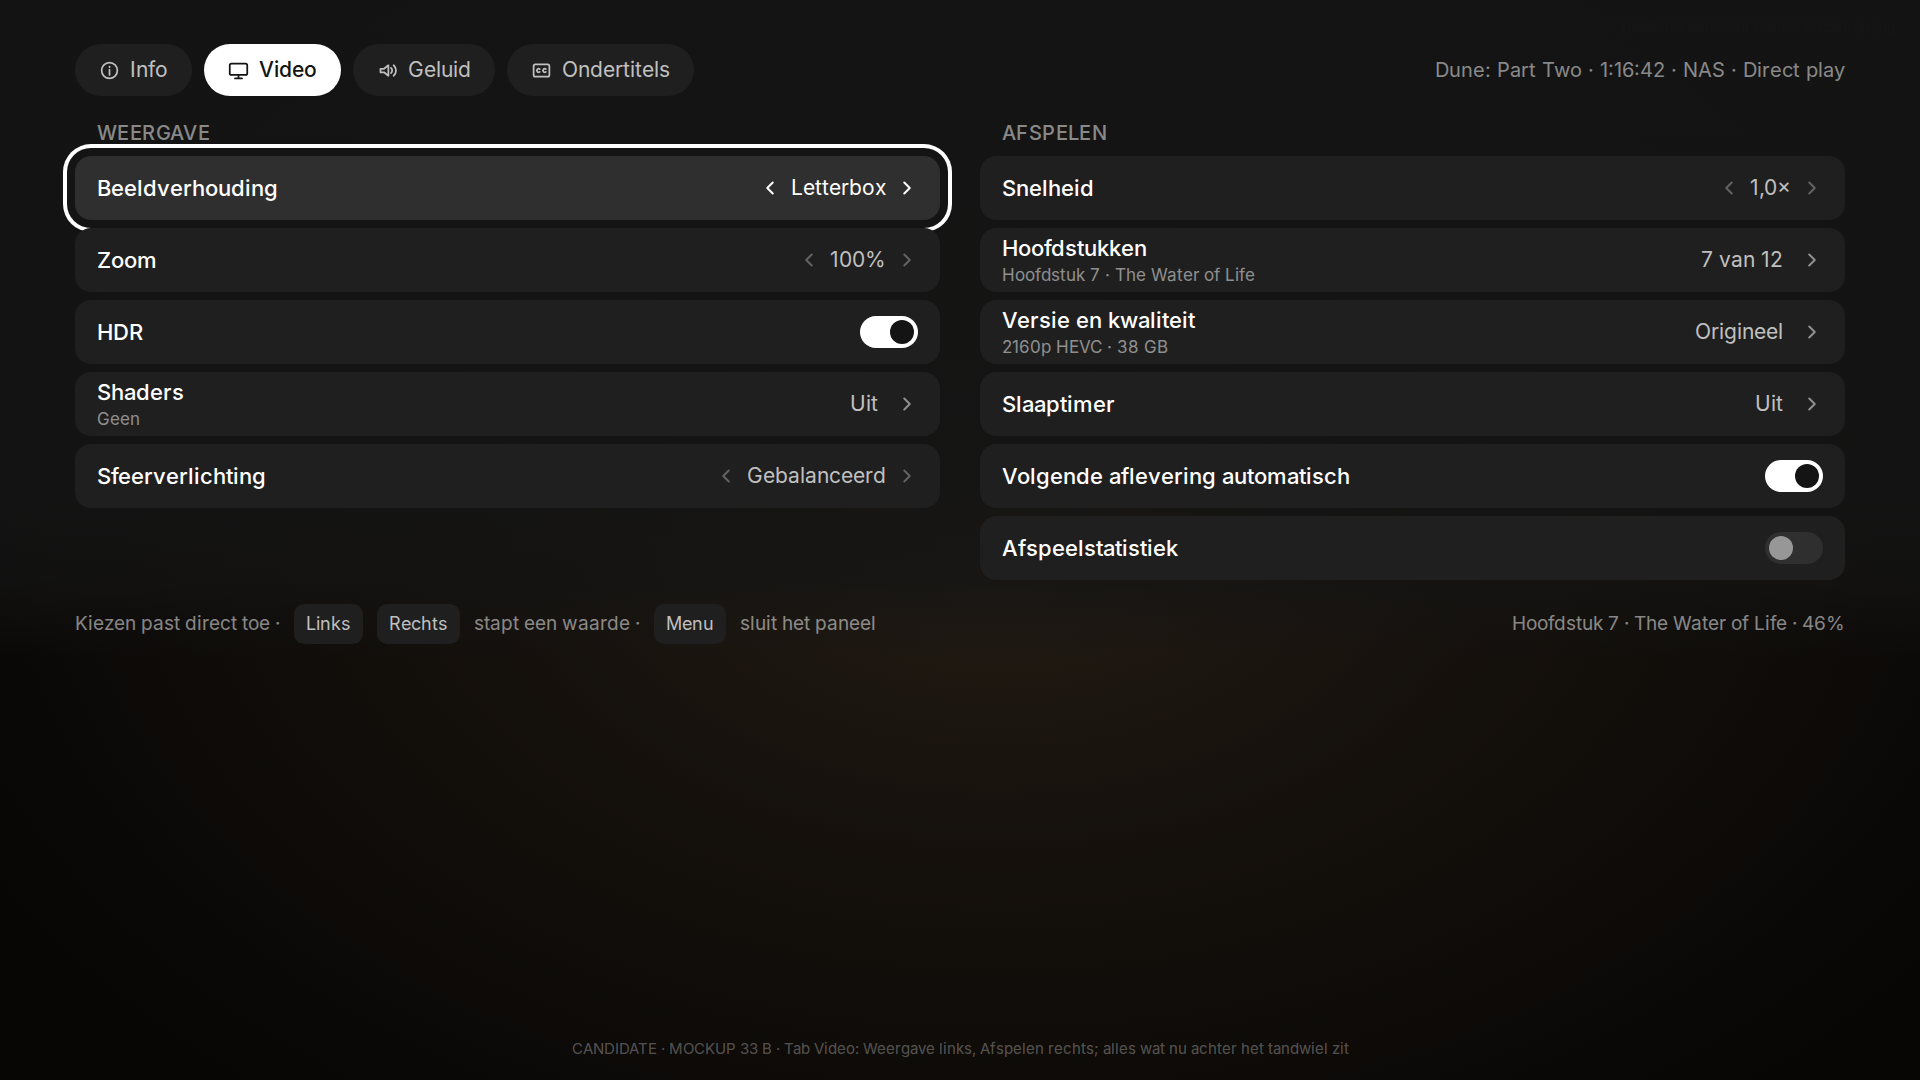
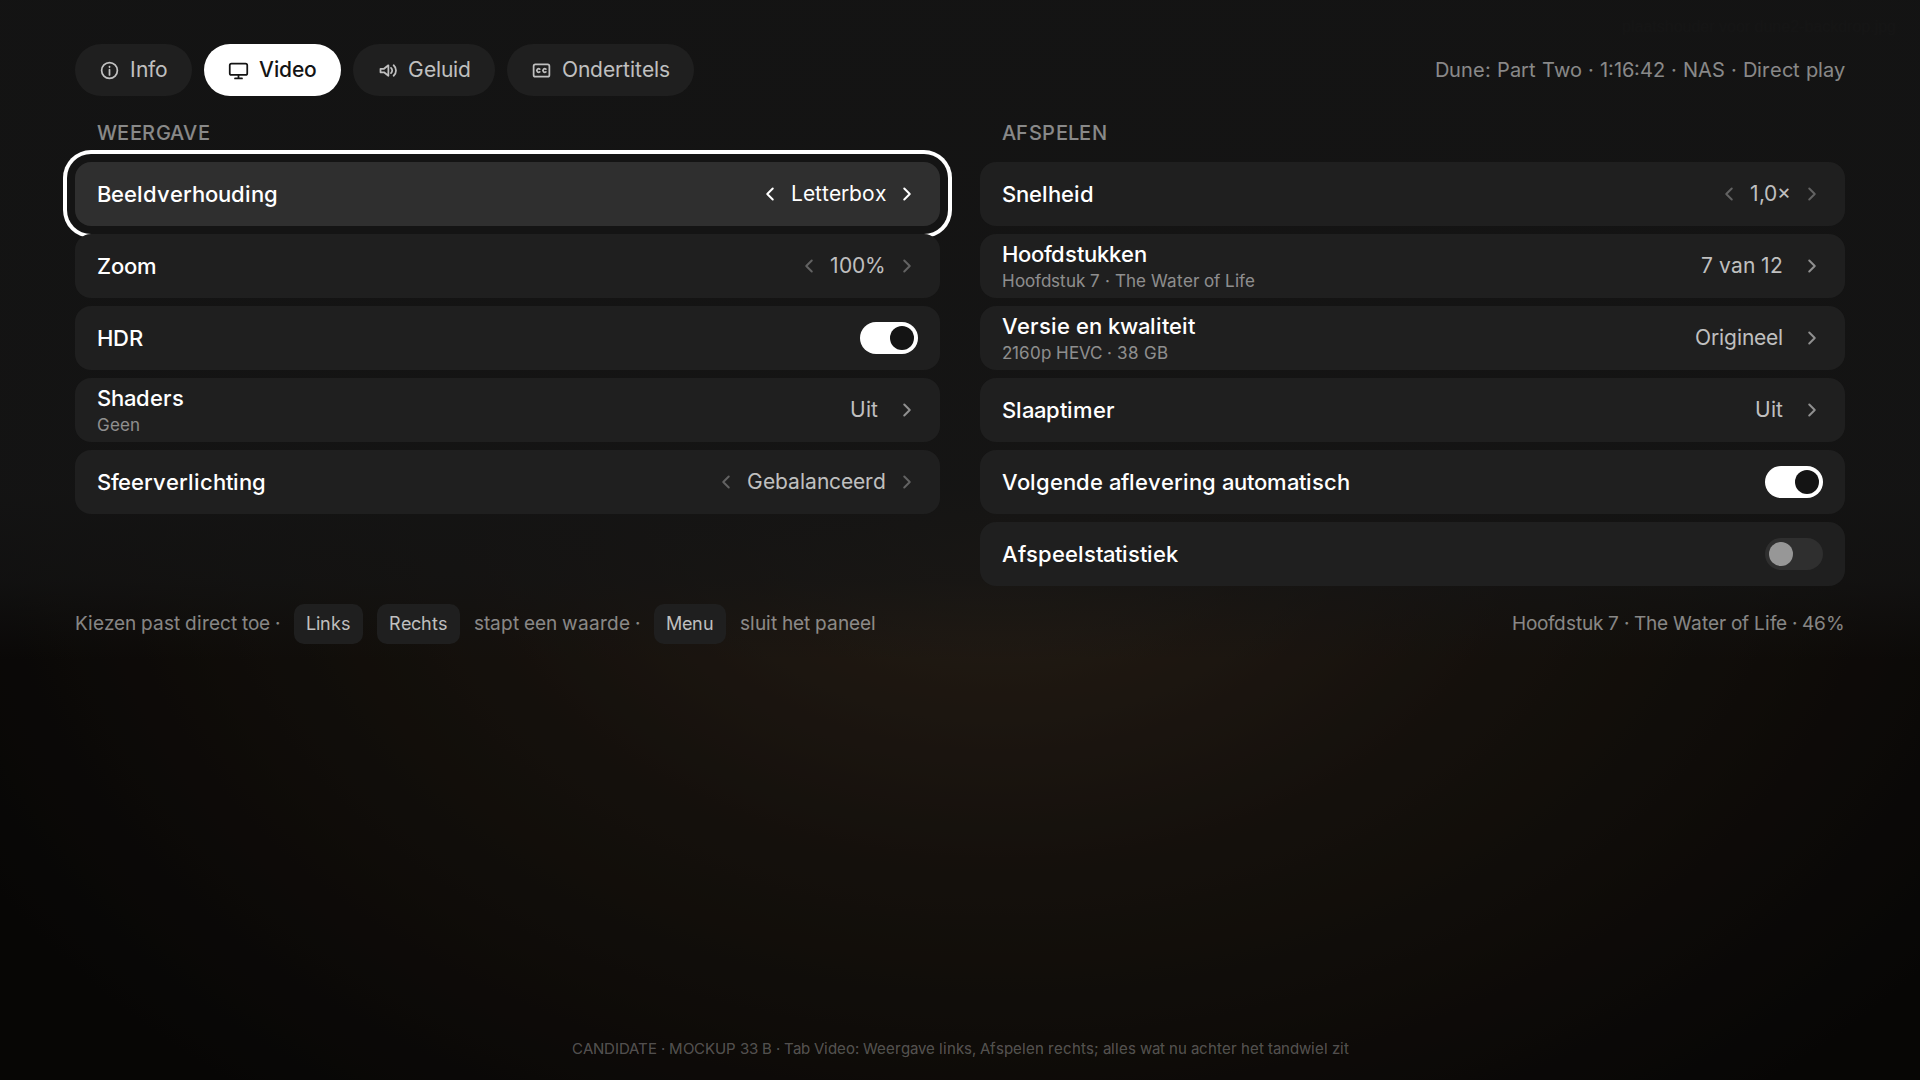
docs(tv): mockup 33, sectiekop vrij van de focusring op de eerste rij
Claude-Session: https://claude.ai/code/session_01Coo9awv2whS8q3HcB3bQhP

diff --git a/docs/assets/tvos-unified/src/pages/33-speler-paneel-a.html b/docs/assets/tvos-unified/src/pages/33-speler-paneel-a.html
@@ -11,7 +11,7 @@
 .ptabs .back .crumb { font-size: 20px; font-weight: 400; color: var(--ink-3); margin-left: 6px; }
 .cols { display: grid; grid-template-columns: 1fr 1fr; gap: 40px; margin-top: 24px; }
 .cols.one { grid-template-columns: 1fr; }
-.sec { font-size: 20px; font-weight: 500; color: var(--ink-3); letter-spacing: .02em; text-transform: uppercase; margin: 0 0 10px 22px; }
+.sec { font-size: 20px; font-weight: 500; color: var(--ink-3); letter-spacing: .02em; text-transform: uppercase; margin: 0 0 16px 22px; }
 .col .rows { gap: 8px; }
 .col .row { min-height: 64px; padding: 0 22px; gap: 18px; }
 .col .row .t { font-size: 22px; }

diff --git a/docs/assets/tvos-unified/src/pages/33-speler-paneel-b.html b/docs/assets/tvos-unified/src/pages/33-speler-paneel-b.html
@@ -11,7 +11,7 @@
 .ptabs .back .crumb { font-size: 20px; font-weight: 400; color: var(--ink-3); margin-left: 6px; }
 .cols { display: grid; grid-template-columns: 1fr 1fr; gap: 40px; margin-top: 24px; }
 .cols.one { grid-template-columns: 1fr; }
-.sec { font-size: 20px; font-weight: 500; color: var(--ink-3); letter-spacing: .02em; text-transform: uppercase; margin: 0 0 10px 22px; }
+.sec { font-size: 20px; font-weight: 500; color: var(--ink-3); letter-spacing: .02em; text-transform: uppercase; margin: 0 0 16px 22px; }
 .col .rows { gap: 8px; }
 .col .row { min-height: 64px; padding: 0 22px; gap: 18px; }
 .col .row .t { font-size: 22px; }

diff --git a/docs/assets/tvos-unified/src/pages/33-speler-paneel-c.html b/docs/assets/tvos-unified/src/pages/33-speler-paneel-c.html
@@ -11,7 +11,7 @@
 .ptabs .back .crumb { font-size: 20px; font-weight: 400; color: var(--ink-3); margin-left: 6px; }
 .cols { display: grid; grid-template-columns: 1fr 1fr; gap: 40px; margin-top: 24px; }
 .cols.one { grid-template-columns: 1fr; }
-.sec { font-size: 20px; font-weight: 500; color: var(--ink-3); letter-spacing: .02em; text-transform: uppercase; margin: 0 0 10px 22px; }
+.sec { font-size: 20px; font-weight: 500; color: var(--ink-3); letter-spacing: .02em; text-transform: uppercase; margin: 0 0 16px 22px; }
 .col .rows { gap: 8px; }
 .col .row { min-height: 64px; padding: 0 22px; gap: 18px; }
 .col .row .t { font-size: 22px; }

diff --git a/docs/assets/tvos-unified/src/pages/33-speler-paneel-d.html b/docs/assets/tvos-unified/src/pages/33-speler-paneel-d.html
@@ -11,7 +11,7 @@
 .ptabs .back .crumb { font-size: 20px; font-weight: 400; color: var(--ink-3); margin-left: 6px; }
 .cols { display: grid; grid-template-columns: 1fr 1fr; gap: 40px; margin-top: 24px; }
 .cols.one { grid-template-columns: 1fr; }
-.sec { font-size: 20px; font-weight: 500; color: var(--ink-3); letter-spacing: .02em; text-transform: uppercase; margin: 0 0 10px 22px; }
+.sec { font-size: 20px; font-weight: 500; color: var(--ink-3); letter-spacing: .02em; text-transform: uppercase; margin: 0 0 16px 22px; }
 .col .rows { gap: 8px; }
 .col .row { min-height: 64px; padding: 0 22px; gap: 18px; }
 .col .row .t { font-size: 22px; }

diff --git a/docs/assets/tvos-unified/src/pages/33-speler-paneel-e.html b/docs/assets/tvos-unified/src/pages/33-speler-paneel-e.html
@@ -11,7 +11,7 @@
 .ptabs .back .crumb { font-size: 20px; font-weight: 400; color: var(--ink-3); margin-left: 6px; }
 .cols { display: grid; grid-template-columns: 1fr 1fr; gap: 40px; margin-top: 24px; }
 .cols.one { grid-template-columns: 1fr; }
-.sec { font-size: 20px; font-weight: 500; color: var(--ink-3); letter-spacing: .02em; text-transform: uppercase; margin: 0 0 10px 22px; }
+.sec { font-size: 20px; font-weight: 500; color: var(--ink-3); letter-spacing: .02em; text-transform: uppercase; margin: 0 0 16px 22px; }
 .col .rows { gap: 8px; }
 .col .row { min-height: 64px; padding: 0 22px; gap: 18px; }
 .col .row .t { font-size: 22px; }

diff --git a/docs/assets/tvos-unified/src/pages/33-speler-paneel-f.html b/docs/assets/tvos-unified/src/pages/33-speler-paneel-f.html
@@ -11,7 +11,7 @@
 .ptabs .back .crumb { font-size: 20px; font-weight: 400; color: var(--ink-3); margin-left: 6px; }
 .cols { display: grid; grid-template-columns: 1fr 1fr; gap: 40px; margin-top: 24px; }
 .cols.one { grid-template-columns: 1fr; }
-.sec { font-size: 20px; font-weight: 500; color: var(--ink-3); letter-spacing: .02em; text-transform: uppercase; margin: 0 0 10px 22px; }
+.sec { font-size: 20px; font-weight: 500; color: var(--ink-3); letter-spacing: .02em; text-transform: uppercase; margin: 0 0 16px 22px; }
 .col .rows { gap: 8px; }
 .col .row { min-height: 64px; padding: 0 22px; gap: 18px; }
 .col .row .t { font-size: 22px; }

diff --git a/docs/assets/tvos-unified/src/pages/33-speler-paneel-g.html b/docs/assets/tvos-unified/src/pages/33-speler-paneel-g.html
@@ -11,7 +11,7 @@
 .ptabs .back .crumb { font-size: 20px; font-weight: 400; color: var(--ink-3); margin-left: 6px; }
 .cols { display: grid; grid-template-columns: 1fr 1fr; gap: 40px; margin-top: 24px; }
 .cols.one { grid-template-columns: 1fr; }
-.sec { font-size: 20px; font-weight: 500; color: var(--ink-3); letter-spacing: .02em; text-transform: uppercase; margin: 0 0 10px 22px; }
+.sec { font-size: 20px; font-weight: 500; color: var(--ink-3); letter-spacing: .02em; text-transform: uppercase; margin: 0 0 16px 22px; }
 .col .rows { gap: 8px; }
 .col .row { min-height: 64px; padding: 0 22px; gap: 18px; }
 .col .row .t { font-size: 22px; }

diff --git a/docs/assets/tvos-unified/src/pages/33-speler-paneel-h.html b/docs/assets/tvos-unified/src/pages/33-speler-paneel-h.html
@@ -11,7 +11,7 @@
 .ptabs .back .crumb { font-size: 20px; font-weight: 400; color: var(--ink-3); margin-left: 6px; }
 .cols { display: grid; grid-template-columns: 1fr 1fr; gap: 40px; margin-top: 24px; }
 .cols.one { grid-template-columns: 1fr; }
-.sec { font-size: 20px; font-weight: 500; color: var(--ink-3); letter-spacing: .02em; text-transform: uppercase; margin: 0 0 10px 22px; }
+.sec { font-size: 20px; font-weight: 500; color: var(--ink-3); letter-spacing: .02em; text-transform: uppercase; margin: 0 0 16px 22px; }
 .col .rows { gap: 8px; }
 .col .row { min-height: 64px; padding: 0 22px; gap: 18px; }
 .col .row .t { font-size: 22px; }
